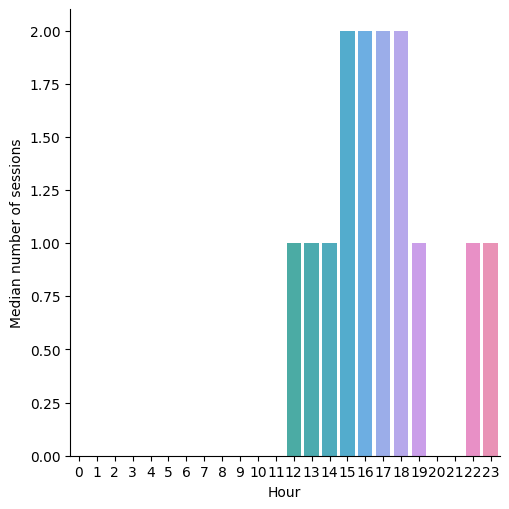
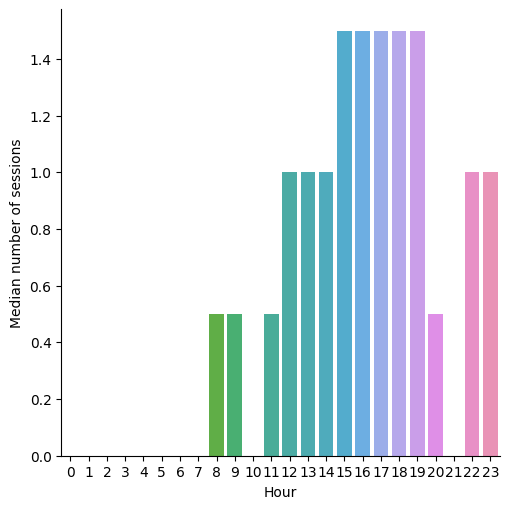
"Stats generated 2021-11-01"

Changed region(s): [[0.0589, 0.0295, 0.943, 1.0], [0.9136, 0.3242, 1.0, 0.8841]]

diff --git a/all/2021/index.html b/all/2021/index.html
@@ -143,9 +143,9 @@
                   
                     <td>10.0</td>
                   
-                    <td>258.0</td>
+                    <td>265.0</td>
                   
-                    <td>26.403820183333334</td>
+                    <td>26.555137950000002</td>
                   
                 </tr>
               
